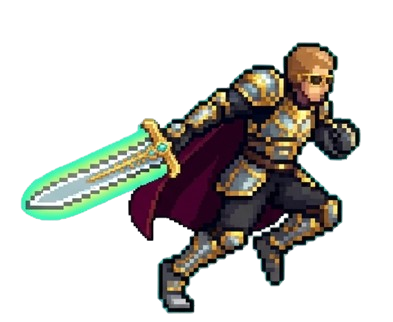
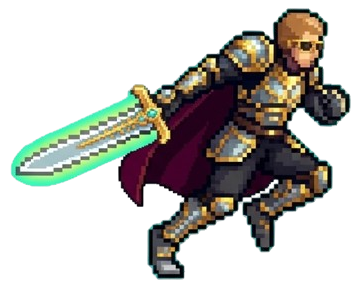
ㄱㄱ

diff --git a/js/bundle1.js b/js/bundle1.js
@@ -94,7 +94,6 @@
   else document.addEventListener('DOMContentLoaded', init);
 })();
 
-
 // ===== js/patch.js =====
 let latestPatch = null;
 
@@ -181,7 +180,6 @@ checkPatch();
 //  유저가 많아서 Vercel 엣지 요청량을 순식간에 잡아먹는 원인이 됐음. 패치 알림은
 //  몇 분 늦게 떠도 큰 문제가 없으니 주기를 크게 늘려서 요청 횟수를 18배 줄인다.)
 setInterval(checkPatch, 180000);
-
 // ===== js/storage.js =====
 const STORAGE_KEY = 'twilight-corridor-save-v2';
 const LOCAL_PREFIX = 'twilight-corridor-';
@@ -220,7 +218,6 @@ async function storageSet(key, value, force){
 
   return localSuccess ? {key, value, shared:false} : null;
 }
-
 
 // ===== js/data.js =====
 const MONSTERS = [
@@ -565,6 +562,16 @@ const COSTUMES = [
     cost: 100000000000, desc:'전신이 순금으로 화한 신화 속 존재의 갑주. 존재 자체가 압도적인 부와 힘의 상징.',
     stats:{atkPct:12, defPct:12, hpPct:12},
   },
+  {
+    key:'jungleBrawler', name:'정글 몽둥이 삼촌', icon:'🌴', img:'image/costumes/jungleBrawler.png',
+    cost: 2000000000, desc:'선글라스와 몽둥이만 있으면 어디든 정글이 되는 야생의 사나이.',
+    stats:{atkPct:4, hpPct:4},
+  },
+  {
+    key:'chickenWarrior', name:'치킨 용사', icon:'🍗', img:'image/costumes/chickenWarrior.png',
+    cost: 50000000000, desc:'한 손엔 검, 한 손엔 통닭. 배고픔과 적을 동시에 처치하는 용사.',
+    stats:{atkPct:8, critAdd:3, goldPct:5},
+  },
 ];
 
 const SOUL_UPGRADES = [
@@ -690,7 +697,6 @@ const ATTENDANCE_REWARDS = [
     { type:"pet", amount:1,    text:"🐾 펫 소환 1회" },
     { type:"both", amount:100, mut:240, text:"🧪 혈청 100 + 🧬 적응 포인트 240" }
 ];
-
 // ===== js/bestiary.js =====
 // ---------- 몬스터 도감 (Bestiary) ----------
 // MONSTERS/BOSSES/TOWER_MONSTERS(js/data.js)를 그룹별로 묶어서 도감 UI에 쓴다.
@@ -760,7 +766,6 @@ function renderBestiary(){
   });
   el.innerHTML = html;
 }
-
 
 // ===== js/mutation.js =====
 // ---------- 돌연변이 각성 (Mutation Awakening) ----------
@@ -976,7 +981,6 @@ function renderMutationTree(){
     btn.addEventListener('click', ()=>buyMutationNode(btn.dataset.key));
   });
 }
-
 
 // ===== js/job.js =====
 // ---------- 전직 (Job Class) ----------
@@ -1261,7 +1265,6 @@ function renderJobMasteryPanel(){
   });
 }
 
-
 // ===== js/titles.js =====
 // ---------- Titles (칭호) ----------
 // 조건을 달성하면 영구 해금되며, 해금한 칭호는 전부 동시에 효과가 적용됨(보유효과).
@@ -1350,7 +1353,6 @@ function renderTitles(){
     btn.addEventListener('click', ()=>equipTitle(btn.dataset.key));
   });
 }
-
 
 // ===== js/costumes.js =====
 // ---------- Costumes (코스튬) ----------
@@ -1466,7 +1468,6 @@ function renderCostumeGrid(){
     btn.addEventListener('click', () => equipCostume(btn.dataset.key));
   });
 }
-
 
 // ===== js/state.js =====
 // 세이브 데이터 버전. 이 값을 올리면 그보다 낮은 버전의 세이브(자동 로드 + 가져오기 모두)가
@@ -1874,7 +1875,6 @@ function tryLevelUp(){
     needed = expNeeded(state.level);
   }
 }
-
 // ===== js/combat.js =====
 // 일반모드(폐허) 전용 고층 난이도 보정.
 // 1~999층은 기존과 동일(배율 1배), 1000층마다 한 단계씩 아래 배율만큼 몬스터 전체 스탯이
@@ -2588,7 +2588,6 @@ const modeTowerHardBtnEl = document.getElementById('modeTowerHardBtn');
 if(modeTowerHardBtnEl) modeTowerHardBtnEl.addEventListener('click', ()=>setMode('towerHard'));
 const modeTowerVeryHardBtnEl = document.getElementById('modeTowerVeryHardBtn');
 if(modeTowerVeryHardBtnEl) modeTowerVeryHardBtnEl.addEventListener('click', ()=>setMode('towerVeryHard'));
-
 // ===== js/skills.js =====
 // ---------- 액티브 스킬 (자동 발동) ----------
 // 🧪 혈청으로 습득/강화하는 액티브 스킬. 각 스킬은 배우는 즉시 자신만의 쿨타임마다
@@ -2902,7 +2901,6 @@ function renderSkillsPanel(){
     btn.addEventListener('click', ()=>buySkill(btn.dataset.key));
   });
 }
-
 
 // ===== js/equipment.js =====
 // ---------- Equipment (장비 뽑기 시스템) ----------
@@ -3276,7 +3274,6 @@ function renderEquipment(){
   }
 }
 
-
 // ===== js/inventory.js =====
 // ---------- 인벤토리(상태창) 모달 ----------
 // 모험가 패널의 "🎒 인벤토리" 버튼으로 열리는 상태창. 기본 장비(무기/방어구/장신구) 3부위는
@@ -3420,7 +3417,6 @@ function renderInventoryModal(){
   }
 }
 
-
 // ===== js/potions.js =====
 // ---------- 물약 상점 (일시적 버프) ----------
 // 물자획득/경험치획득처럼 전역 상한(GOLD_MULT_CAP 등)이 걸린 스탯은 강화를 다 채운 유저에겐
@@ -3551,7 +3547,6 @@ function renderPotionShop(){
     btn.addEventListener('click', ()=>buyPotion(btn.dataset.key));
   });
 }
-
 
 // ===== js/enhance.js =====
 // ---------- 장비 강화 (Enhance) ----------
@@ -3815,7 +3810,6 @@ function renderEnhancePanel(){
   });
 }
 
-
 // ===== js/goods-shop.js =====
 // ---------- 잡화 상점 (레이드 입장권 + 강화 주문서) ----------
 // 물자(gold)로 구매하는 소모품 상점. 레이드 입장권은 자연 충전(1시간당 1개, 최대 3개)과 별개로
@@ -3909,7 +3903,6 @@ function renderEnhanceScrollShop(){
     btn.addEventListener('click', () => buyEnhanceScroll(btn.dataset.key));
   });
 }
-
 
 // ===== js/raid.js =====
 // ---------- Raid (1인 레이드) ----------
@@ -4186,7 +4179,6 @@ setInterval(()=>{
   renderRaidPanel();
 }, 1000);
 
-
 // ===== js/golden.js =====
 // ---------- 황금 몬스터 (레어 강화 조우) ----------
 // 아주 낮은 확률로 화면 위에 반짝이는 황금 몬스터 표식이 잠깐 나타난다.
@@ -4313,7 +4305,6 @@ function awardGoldenKillBonus(currentFloor, s){
 }
 
 document.getElementById('goldenMonster')?.addEventListener('click', clickGoldenMonster);
-
 
 // ===== js/golddungeon.js =====
 // ---------- Gold Dungeon (물자 구역) ----------
@@ -4514,7 +4505,6 @@ setInterval(()=>{
   renderGoldDungeonPanel();
 }, 1000);
 
-
 // ===== js/relicdungeon.js =====
 // ---------- Relic Dungeon (유산 구역) ----------
 // 물자 구역과 동일한 구조(티켓제, 10층, 고정 스탯 전투)지만 보상이 물자 대신 유산 파편입니다.
@@ -4709,7 +4699,6 @@ setInterval(()=>{
   refreshRelicDungeonTickets();
   renderRelicDungeonPanel();
 }, 1000);
-
 
 // ===== js/forgedungeon.js =====
 // ---------- Forge Dungeon (단조 구역) ----------
@@ -4907,7 +4896,6 @@ setInterval(()=>{
   renderForgeDungeonPanel();
 }, 1000);
 
-
 // ===== js/trainingdungeon.js =====
 // ---------- Training Dungeon (수련 구역) ----------
 // 물자/유산 구역과 동일한 구조(티켓제, 10층, 고정 스탯 전투)지만 보상이 확정 경험치입니다.
@@ -5102,7 +5090,6 @@ setInterval(()=>{
   refreshTrainingDungeonTickets();
   renderTrainingDungeonPanel();
 }, 1000);
-
 
 // ===== js/territory.js =====
 // ---------- 영지 (Territory) ----------
@@ -5339,7 +5326,6 @@ function renderTerritoryPanel(){
 document.getElementById('territoryBuildGoldBtn')?.addEventListener('click', ()=>expandTerritorySlot('gold'));
 document.getElementById('territoryBuildFragBtn')?.addEventListener('click', ()=>expandTerritorySlot('fragment'));
 document.getElementById('territoryBuildSoulBtn')?.addEventListener('click', ()=>expandTerritorySlot('soul'));
-
 
 // ===== js/ui-render.js =====
 // ---------- Rendering ----------
@@ -5581,7 +5567,6 @@ function setTabBadge(id, count){
 
 
 
-
 // ===== js/shop.js =====
 let shopBuyMultiplier = 1;
 document.querySelectorAll('.buy-mult-btn').forEach(btn=>{
@@ -5726,7 +5711,6 @@ function renderSoulShop(){
     if(btn.textContent !== label) btn.textContent = label;
   });
 }
-
 // ===== js/relics-pets.js =====
 // ---------- Relics ----------
 function relicPullCost(){
@@ -5912,7 +5896,6 @@ function petTick(){
 }
 
 
-
 // ===== js/killpass.js =====
 // ---------- ⚔ 몬스터 처치 패스 ----------
 // 누적 처치(state.totalKills) 기준으로 KILL_PASS_TIERS를 순서대로 하나씩만 수령할 수 있는
@@ -6064,7 +6047,6 @@ document.getElementById('killPassTrack')?.addEventListener('click', (e)=>{
   const claimed = state.killPassClaimed || 0;
   if(tier === claimed + 1) claimKillPassTier();
 });
-
 
 // ===== js/pet-shelter.js =====
 // ---------- 동료 쉼터 (Pet Shelter) ----------
@@ -6227,7 +6209,6 @@ function wanderPetShelter(){
     el.style.top = nextTop + '%';
   });
 }
-
 
 // ===== js/expedition.js =====
 // ---------- 원정대 (Expedition) ----------
@@ -6490,7 +6471,6 @@ function renderExpeditionPanel(){
     btn.addEventListener('click', () => dispatchExpedition(btn.dataset.mission, btn.dataset.pet));
   });
 }
-
 
 // ===== js/quests.js =====
 // ---------- Quests & Achievements ----------
@@ -6854,7 +6834,6 @@ function openRebirthHistory(){
 document.getElementById('rebirthHistoryBtn')?.addEventListener('click', openRebirthHistory);
 
 
-
 // ===== js/attendance.js =====
 function isSameDay(a,b){
 
@@ -6975,7 +6954,6 @@ saveState(true);
 document
 .getElementById("attendanceBtn")
 .onclick=claimAttendance;
-
 // ===== js/persistence.js =====
 document.getElementById('saveBtn').addEventListener('click', ()=>{ saveState(true); });
 document.getElementById('resetBtn').addEventListener('click', async ()=>{
@@ -7226,4 +7204,3 @@ document.getElementById('offlineCloseBtn').addEventListener('click', ()=>{
   document.getElementById('offlineModal').style.display = 'none';
   renderAll();
 });
-

diff --git a/js/bundle2.js b/js/bundle2.js
@@ -25,7 +25,6 @@ firebase.initializeApp(firebaseConfig);
 const fbAuth = firebase.auth();
 const fbDb = firebase.firestore();
 
-
 // ===== js/auth.js =====
 // ---------- Auth (Firebase 로그인 시스템) ----------
 // 전략: 모든 방문자를 즉시 '익명(Anonymous) 로그인' 시켜 Firebase uid를 부여한다.
@@ -449,7 +448,6 @@ async function handleReauthAndRetryDelete(user){
   }
 }
 
-
 // ===== js/ranking.js =====
 // ---------- Ranking (랭킹 시스템) ----------
 // rankings/{uid} 문서에 닉네임/전투력/최고층을 올리고, 전투력 내림차순 상위 50명을 보여준다.
@@ -544,7 +542,6 @@ async function fetchRanking(){
 }
 
 document.getElementById('rankingRefreshBtn')?.addEventListener('click', fetchRanking);
-
 
 // ===== js/plaza.js =====
 // ---------- Plaza (광장: 실시간 접속자 목록 + 채팅) ----------
@@ -743,7 +740,6 @@ document.getElementById('plazaChatInput')?.addEventListener('keydown', (e) => {
 // 페이지를 완전히 벗어날 때 리스너 정리(안 해도 브라우저가 정리하지만 명시적으로 닫아준다)
 window.addEventListener('beforeunload', plazaLeave);
 
-
 // ===== js/pvp.js =====
 // ---------- PvP (랭킹 상대와 1대1 모의전투) ----------
 // 실시간 대전이 아니라, 상대의 최근 랭킹 스탯 스냅샷(rankings/{uid})을 가져와
@@ -878,7 +874,6 @@ function renderPvpRecord(){
   if(!el) return;
   el.textContent = `⚔ 내 PvP 전적 ${state.pvpWins||0}승 ${state.pvpLosses||0}패 · 🎖 명예 ${(state.pvpHonor||0).toLocaleString()}`;
 }
-
 
 // ===== js/worldboss.js =====
 // ---------- 월드보스 ----------
@@ -1380,7 +1375,6 @@ setInterval(()=>{
   if(!worldBossUnlocked()) return;
   renderWorldBossPanel();
 }, 1000);
-
 // ===== js/tabs.js =====
 // ---------- 탭 네비게이션 ----------
 // 기능이 계속 추가되면서 한 페이지에 패널이 너무 많이 쌓여 스크롤이 길어지는 문제를 해결하기 위해
@@ -1421,7 +1415,6 @@ document.querySelectorAll('.local-subtab-btn').forEach(btn=>{
     });
   });
 });
-
 
 // ===== js/gifts.js =====
 // ---------- 선물함 (관리자 지급 보상) ----------
@@ -1598,7 +1591,6 @@ setInterval(()=>{
   }
 }, 60000);
 
-
 // ===== js/main.js =====
 // ---------- Init ----------
 async function init(){
@@ -1678,5 +1670,4 @@ async function init(){
 function startGame(){
   init();
 }
-
 

diff --git a/js/data.js b/js/data.js
@@ -340,6 +340,16 @@ const COSTUMES = [
     cost: 100000000000, desc:'전신이 순금으로 화한 신화 속 존재의 갑주. 존재 자체가 압도적인 부와 힘의 상징.',
     stats:{atkPct:12, defPct:12, hpPct:12},
   },
+  {
+    key:'jungleBrawler', name:'정글 몽둥이 삼촌', icon:'🌴', img:'image/costumes/jungleBrawler.png',
+    cost: 2000000000, desc:'선글라스와 몽둥이만 있으면 어디든 정글이 되는 야생의 사나이.',
+    stats:{atkPct:4, hpPct:4},
+  },
+  {
+    key:'chickenWarrior', name:'치킨 용사', icon:'🍗', img:'image/costumes/chickenWarrior.png',
+    cost: 50000000000, desc:'한 손엔 검, 한 손엔 통닭. 배고픔과 적을 동시에 처치하는 용사.',
+    stats:{atkPct:8, critAdd:3, goldPct:5},
+  },
 ];
 
 const SOUL_UPGRADES = [

diff --git a/styles.css b/styles.css
@@ -562,7 +562,7 @@
   .player-sprite{
     position:relative;
     z-index:2;
-    width:34%;
+    width:44%;
     display:flex;
     align-items:flex-end;
     justify-content:center;
